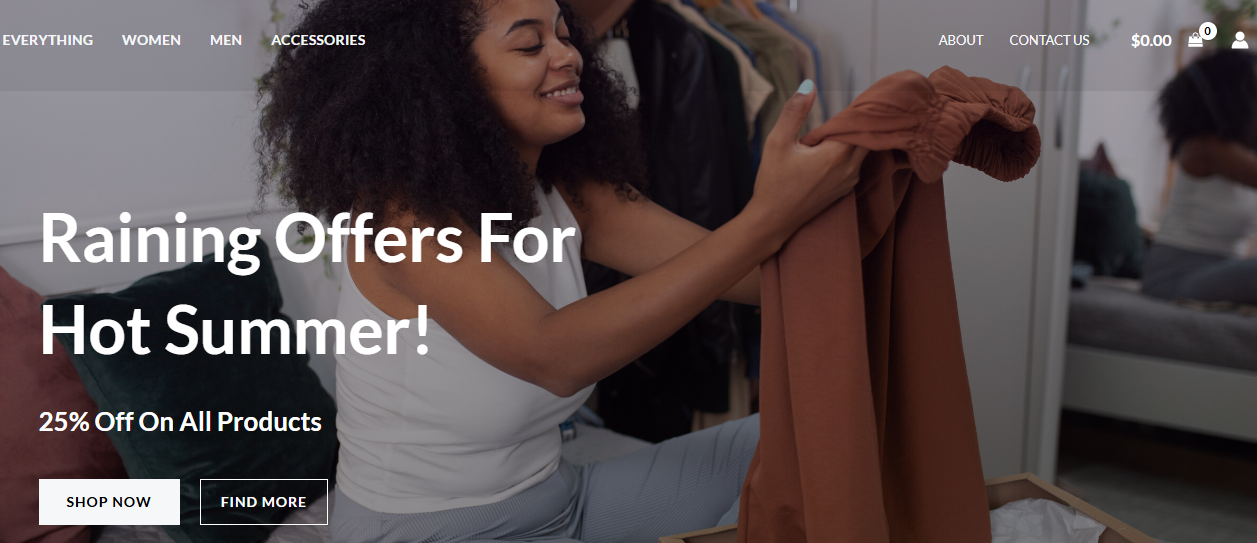
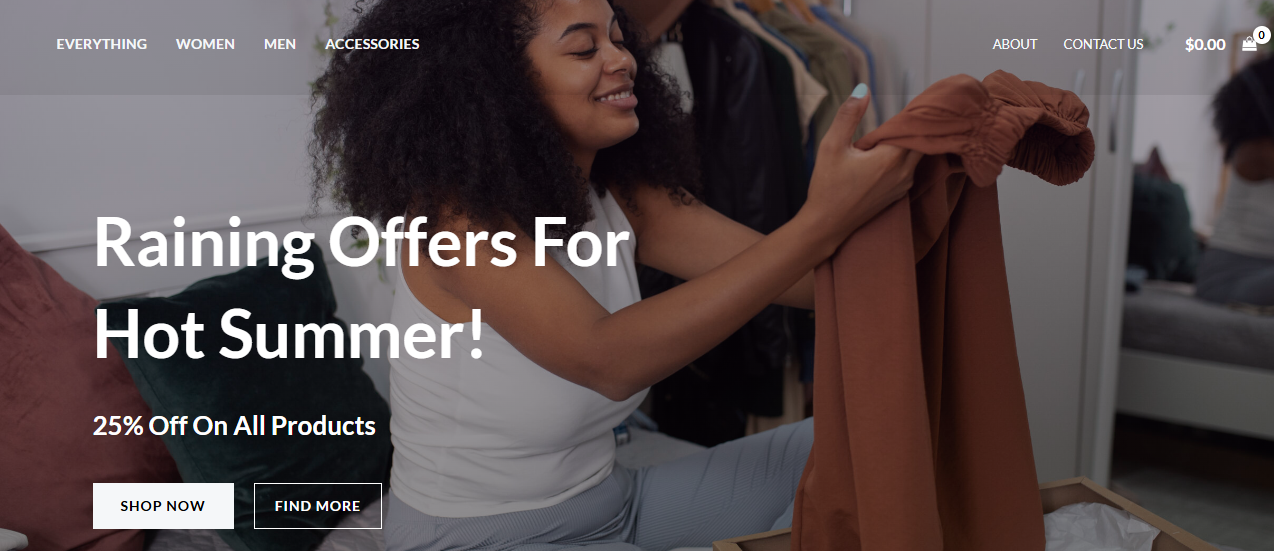
Update projects section and add project images

diff --git a/src/components/Projects.jsx b/src/components/Projects.jsx
@@ -95,7 +95,7 @@ export default function Projects() {
   id: 5,
   title: "Nigerian Aid Organisation",
   description: "Sample Nigerian Aid Group website, well-structured and designed for easy navigation, visual clarity, and user engagement.",
-  image: "/xarrie_site",
+  image: "/xarrie-site.png",
   technologies: ["WordPress", "Elementor"],
   category: "wordpress",
   liveUrl: "https://nigeriaaidgroup.com.ng/",
